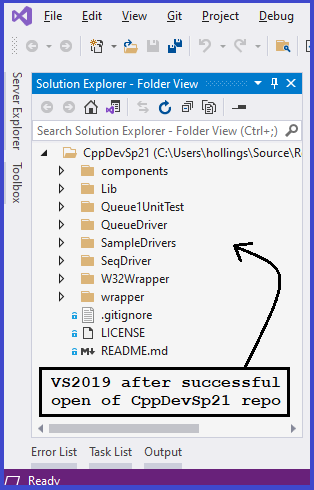
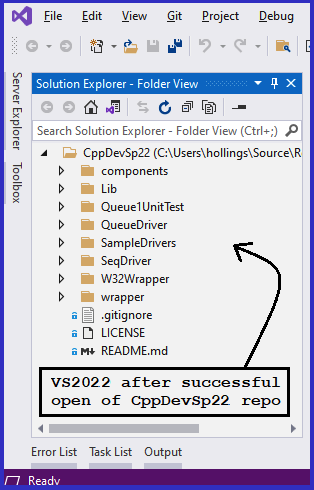
updating VS instructions

diff --git a/LabRelated/index.html b/LabRelated/index.html
@@ -11,11 +11,11 @@
 
 <h4>Obtaining a copy of Visual Studio</h4>
 <ul>
-  <li><a href="https://drholly77.github.io/CSSE373Pages/VisualStudio/GetVS2019.html" target="_blank">Get Visual Studio 2019</a></li>
+  <li><a href="https://drholly77.github.io/CSSE373Pages/VisualStudio/GetVS2022.html" target="_blank">Get Visual Studio 2022</a></li>
 </ul>
 <h4>Creating and building console projects</h4>
 <ul>
-  <li><a href="creatingNewVs2019Project.html" target="_blank">Creating a New VS2019 Console Project</a></li>
+  <li><a href="creatingNewVS2022Project.html" target="_blank">Creating a New VS2022 Console Project</a></li>
   <li><a href="addingCppFilesToProject.html" target="_blank">Adding .cpp Files to a Project</a></li>
   <li><a href="changingProjectsSettingsVs.html" target="_blank">Changing a Project's Settings</a></li>
   <li><a href="buildingProjectVs.html" target="_blank">Building a Project</a></li>
@@ -23,17 +23,17 @@
   <li><a href="CompilingProject.pdf" target="_blank">How Visual Studio Builds a Project</a></li>
 </ul>
 
-<h4>VS2019 Git Repo Topics</h4>
+<h4>VS2022 Git Repo Topics</h4>
 <ul>
 <li><a href="https://drholly77.github.io/CSSE373Pages/GitHub/CreateGitHubRepo.html" target="_blank">Creating the CSSE373 CppDev repo</a> (done only once)</li>
-<li><a href="https://drholly77.github.io/CSSE373Pages/VisualStudio/CloneGitHubRepo.html" target="_blank">Using VS2019 to clone your CppDev Repo</a> (done only once)</li>
-<li><a href="https://drholly77.github.io/CSSE373Pages/VisualStudio/OpenRepo.html" target="_blank">Opening your CppDev repo from VS2019</a> (done every time you startup VS2019)</li>
+<li><a href="https://drholly77.github.io/CSSE373Pages/VisualStudio/CloneGitHubRepo.html" target="_blank">Using VS2022 to clone your CppDev Repo</a> (done only once)</li>
+<li><a href="https://drholly77.github.io/CSSE373Pages/VisualStudio/OpenRepo.html" target="_blank">Opening your CppDev repo from VS2022</a> (done every time you startup VS2022)</li>
 <li><a href="https://rose-hulman.hosted.panopto.com/Panopto/Pages/Viewer.aspx?id=4e0c7d6a-d749-4cf0-a970-ace9012d41b5" target="_blank">Commit and Push project changes (video)</a></li>
-<li><a href="https://d2y36twrtb17ty.cloudfront.net/sessions/e0be429e-fd72-44e9-8618-acee0146dbca/a0c838a5-1d55-4085-aaa9-acee0146dbd3-9c80a91d-e757-44ef-af30-acee0150fbc3.mp4?invocationId=e3daa77a-6687-eb11-a9e3-0a1a827ad0ec" target="_blank">Navigating VS2019 between repo folder and projects (video)</a></li>
+<li><a href="https://d2y36twrtb17ty.cloudfront.net/sessions/e0be429e-fd72-44e9-8618-acee0146dbca/a0c838a5-1d55-4085-aaa9-acee0146dbd3-9c80a91d-e757-44ef-af30-acee0150fbc3.mp4?invocationId=e3daa77a-6687-eb11-a9e3-0a1a827ad0ec" target="_blank">Navigating VS2022 between repo folder and projects (video)</a></li>
 </ul>
 <h4>Creating unit test projects</h4>
 <ol>
-  <li><a href="creatingNewUnitTestVs2019Project.html" target="_blank">Creating a New VS2019 Project for Unit Testing</a></li>
+  <li><a href="creatingNewUnitTestVS2022Project.html" target="_blank">Creating a New VS2022 Project for Unit Testing</a></li>
   <li><a href="changingUnitTestProjectsSettingsVs.html" target="_blank">Changing a Unit Test Project's Settings</a></li>
 </ol>
 <h4>Keyboard Shortcuts</h4>

diff --git a/VisualStudio/OpenRepo.html b/VisualStudio/OpenRepo.html
@@ -7,16 +7,16 @@
 </head>
 
 <body>
-<h1>Opening Your Repo from  VS2019</h1>
+<h1>Opening Your Repo from  VS2022</h1>
 <ul>
-  <li>While working on 373 assignments, always start up VS2019 with your CppDev repo</li>
+  <li>While working on 373 assignments, always start up VS2022 with your CppDev repo</li>
   <li>The 4 screen shots below walk you through the process</li>
 </ul>
 <hr>
-<h3>1. Startup up VS2019 to get the splash screen</h3>
+<h3>1. Startup up VS2022 to get the splash screen</h3>
 	
 	<p><img src="OpenRepo/SplashScreenOpenRepo.png" width="833" height="583" alt=""/></p>
-<h3> 2. VS2019 after successful open of CppDev repo</h3>
+<h3> 2. VS2022 after successful open of CppDev repo</h3>
 <p><img src="OpenRepo/SuccessfulOpenOfRepo.png" width="314" height="490" alt=""/></p>
 
 <h3> 3. Toggle between repo view and <em>Solutions</em> view</h3>

diff --git a/LabRelated/creatingNewUnitTestVs2022Project.html b/LabRelated/creatingNewUnitTestVs2022Project.html
@@ -1,0 +1,19 @@
+<!DOCTYPE html>
+<html>
+<head>
+<meta http-equiv="Content-Language" content="en-us">
+<meta charset="utf-8">
+<meta NAME="Author" CONTENT="Dr. Holly">
+<title>Creating a New VS2022 Project for Unit Testing</title>
+</head>
+
+<body>
+<h2>Creating a New VS2022 Project for Unit Testing</h2>
+<hr />
+<img src="imagesVS19CreateProject/0-createNewProjectN1.png" width="663" height="166" alt=""/>
+<hr>
+<img src="imagesVS19CreateProject/1-NewUnitTestProjectDialog.png"  alt="" width="1000" height="694"/>
+<hr>
+<img src="imagesVS19CreateProject/2-NewProjectDialogN1.png" width="631" height="498" alt=""/>
+</body>
+</html>
